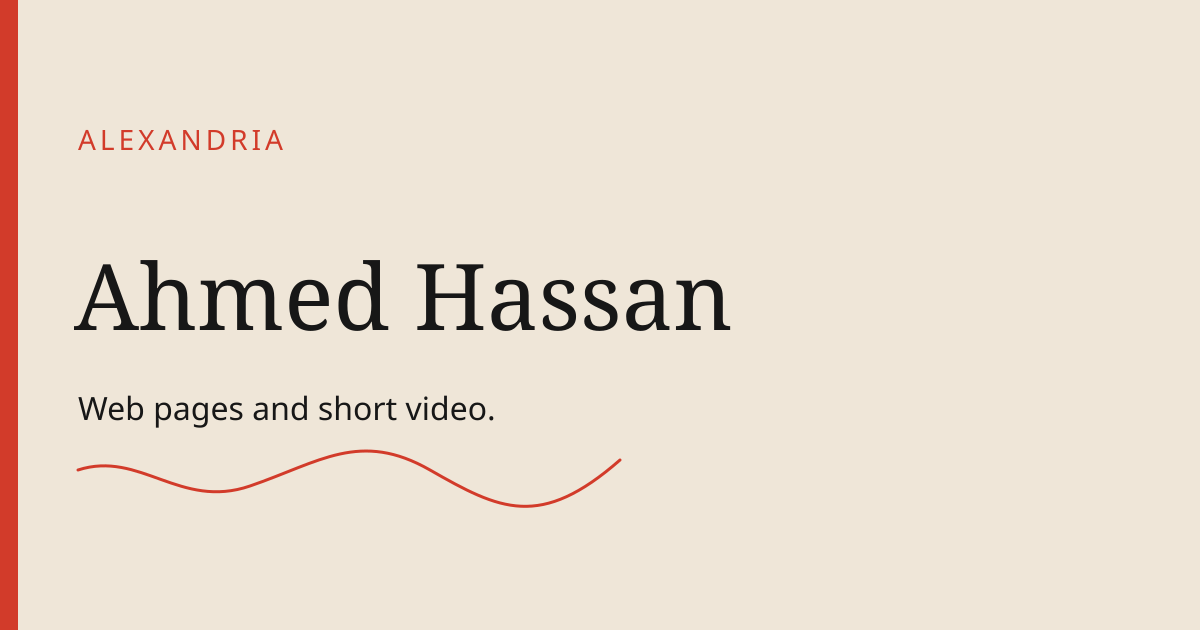
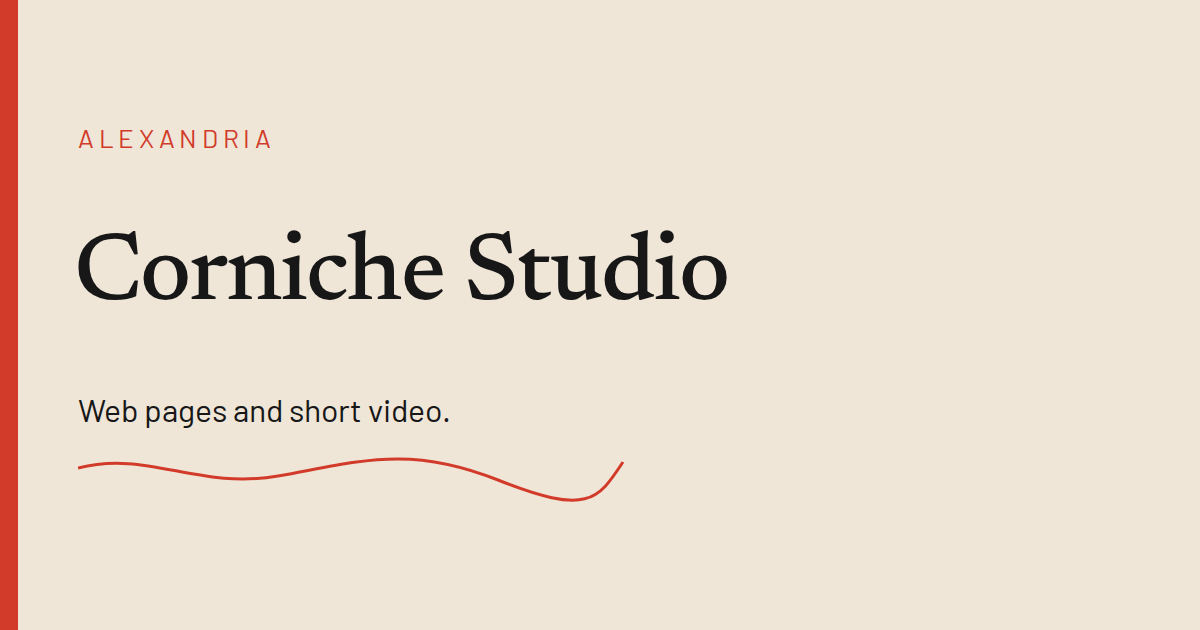
Regenerate the Corniche Studio Open Graph image.
Add a Playwright script that renders tools/og/og.html with the local fonts to a 1200x630 RGB og.png.

Changed region(s): [[0.0617, 0.3619, 0.6167, 0.5429], [0.0617, 0.6333, 0.5242, 0.8143], [0.0617, 0.181, 0.2467, 0.2413]]

diff --git a/tools/og/og.html b/tools/og/og.html
@@ -1,0 +1,10 @@
+<!doctype html><html><head><meta charset="utf-8"><link rel="stylesheet" href="../../fonts/faces.css"><style>
+html,body{margin:0;width:1200px;height:630px;background:#efe6d8;overflow:hidden}
+.bar{position:absolute;left:0;top:0;width:18px;height:630px;background:#d23b2a}
+.loc{position:absolute;left:78px;top:122px;font:400 26px Barlow,sans-serif;letter-spacing:.18em;color:#d23b2a}
+h1{position:absolute;left:74px;top:228px;margin:0;font:500 96px Newsreader,serif;letter-spacing:-.02em;color:#171717;line-height:1}
+.sub{position:absolute;left:78px;top:390px;font:400 32px Barlow,sans-serif;color:#171717}
+svg{position:absolute;left:78px;top:450px}
+</style></head><body><div class="bar"></div><div class="loc">ALEXANDRIA</div><h1>Corniche Studio</h1><div class="sub">Web pages and short video.</div>
+<svg width="560" height="70" viewBox="0 0 560 70"><path d="M0 18 C 70 0, 120 40, 200 26 S 330 -6, 420 30 S 520 50, 545 12" fill="none" stroke="#d23b2a" stroke-width="3"/></svg>
+</body></html>

diff --git a/tools/og/README.md b/tools/og/README.md
@@ -1,0 +1,2 @@
+Regenerate the 1200×630 Open Graph image at the repository root from og.html and the local fonts.
+From the repo root: `npm install --no-save playwright && npx playwright install chromium && node tools/og/render.mjs`
